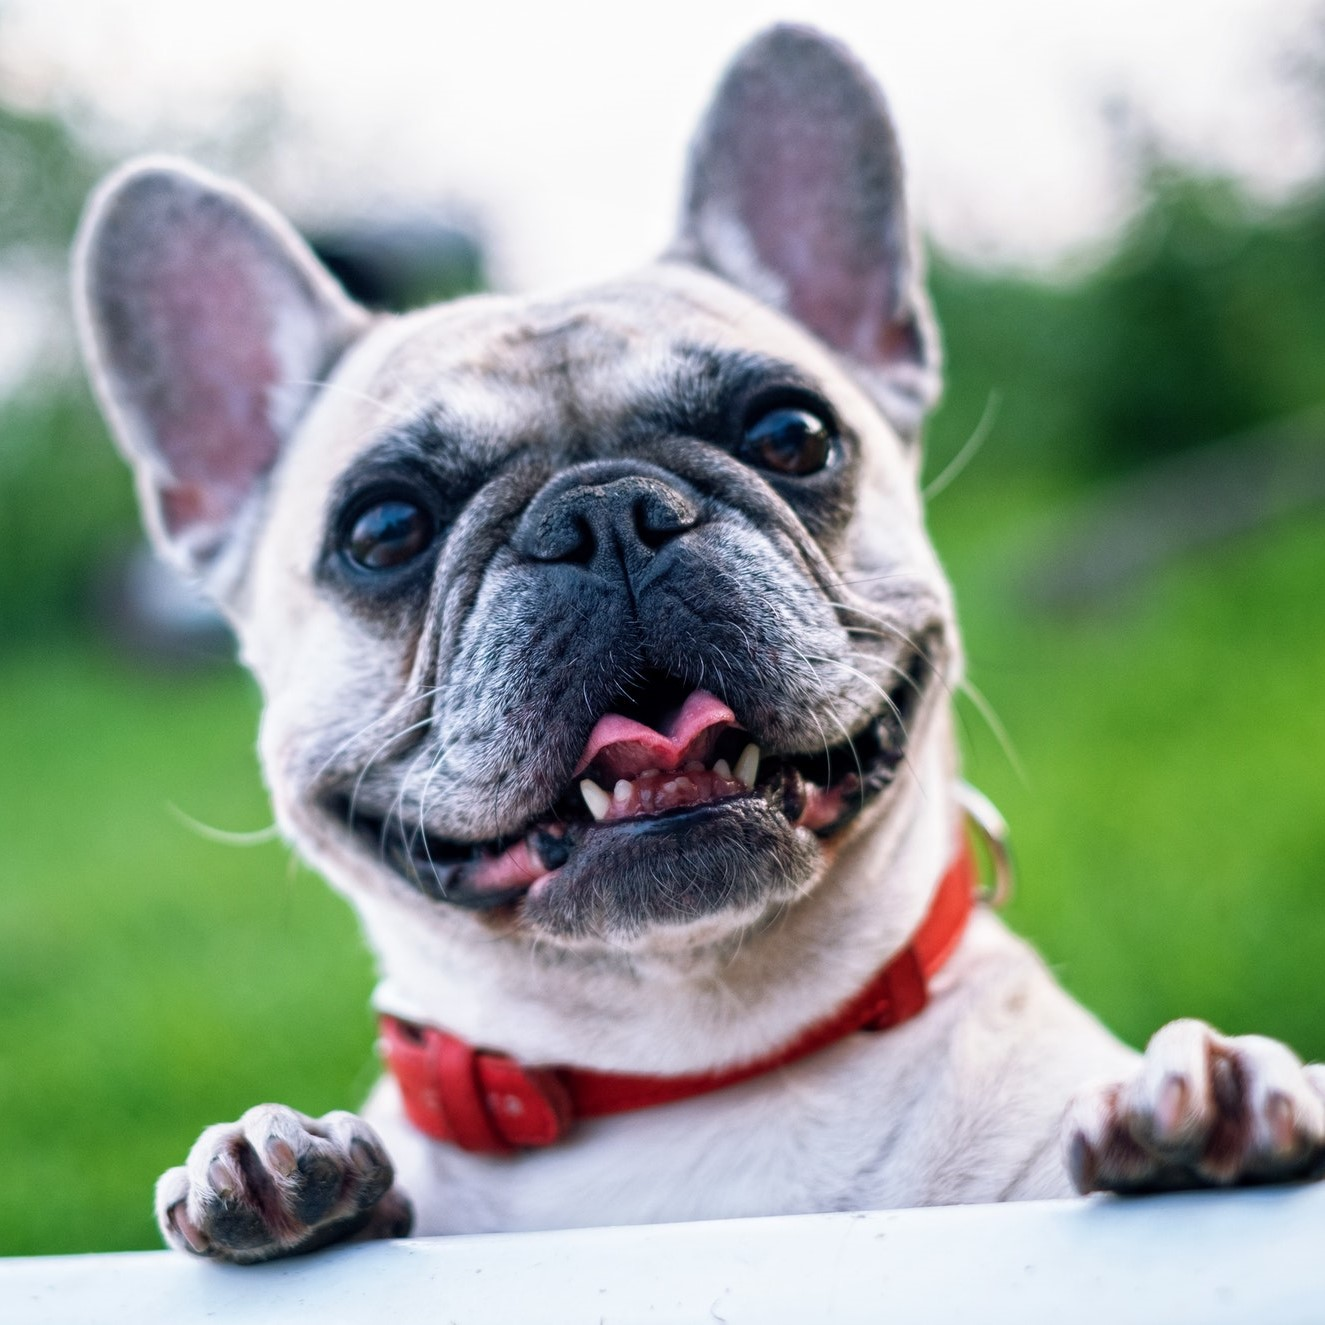
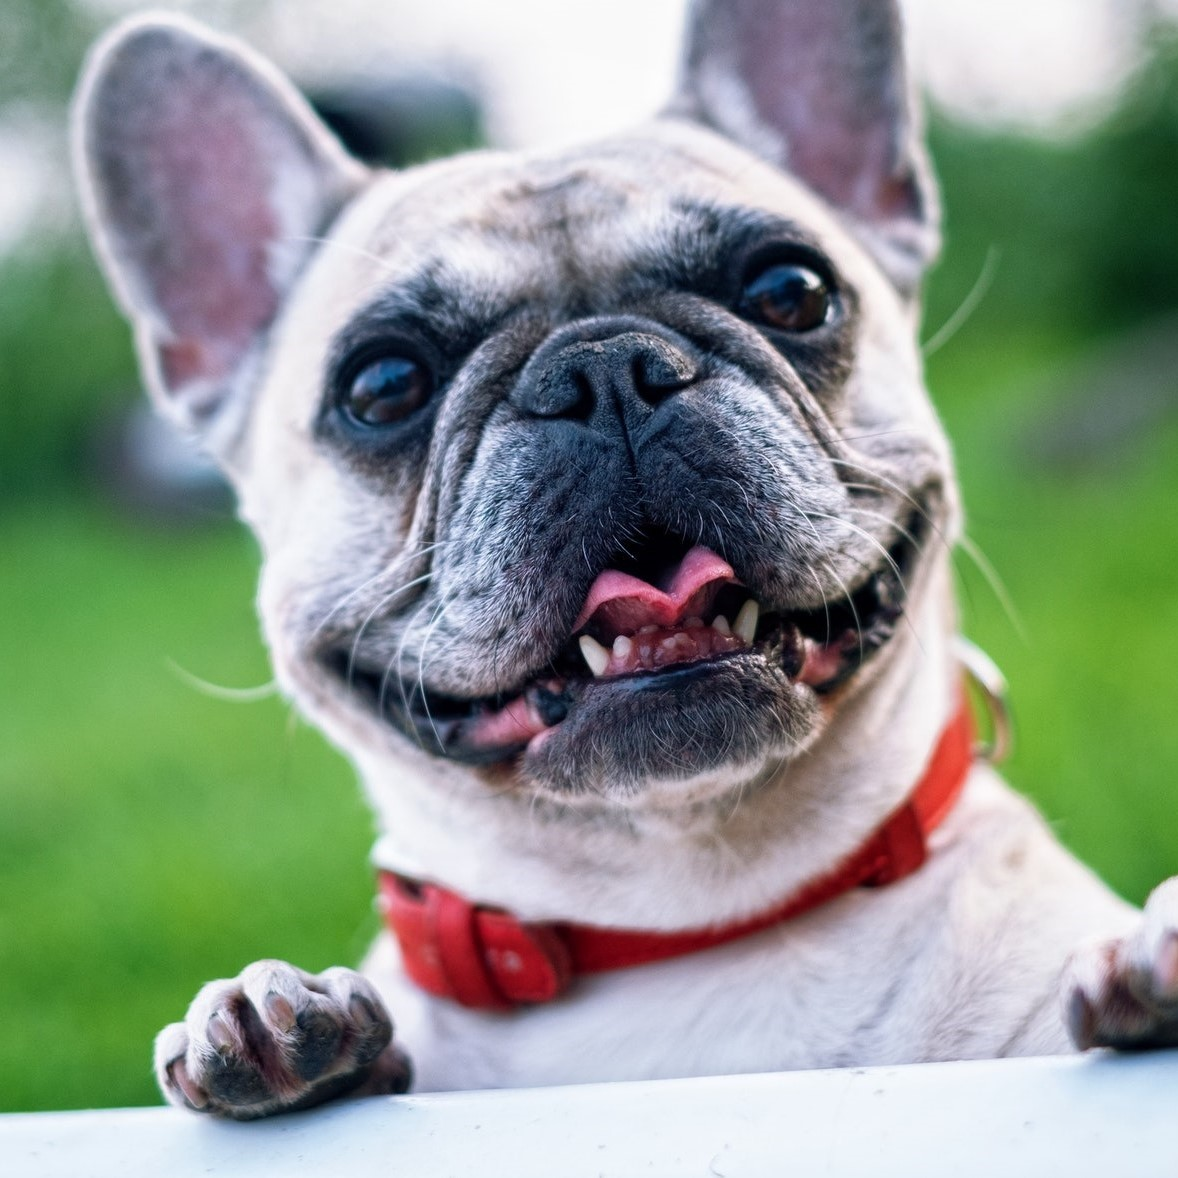
pre netlify commit

diff --git a/src/components/hello.js b/src/components/hello.js
@@ -11,9 +11,9 @@ function SliderComponent(){
         adaptiveHeight:false,
         fade: true,
         infinite: true,
-        speed: 1500,
+        autoplay:true,
         slidesToShow: 1,
-        initialSlide:1,
+        initialSlide:0,
         autoplaySpeed:4000,
         slidesToScroll: 1,
         
@@ -24,14 +24,12 @@ function SliderComponent(){
         <div className="hello">
         <Slider className="hello__slider" {...settings}>
           <div>
-            <StaticImage src="../images/dog22.jpg" />
+            <StaticImage className="hello__image" src="../images/dog22.jpg" />
           </div>
           <div>
-          <StaticImage  className="hello__image" src="../images/dog22.jpg" />
+          <StaticImage  className="hello__image" src="../images/dog1.jpg" />
           </div>
-          <div>
-          <StaticImage src="../images/dog22.jpg" />
-          </div>
+         
  </Slider>
  <div className="hello__mask">
  </div>

diff --git a/src/components/header.js b/src/components/header.js
@@ -17,7 +17,7 @@ function handleClick(){
   
   return(
   <header className="header">
-    <h1 className="header__title">{siteTitle}</h1>
+    <Link className="link" to="/"><h1 className="header__title">{siteTitle}</h1></Link>
     <nav className="navigation">
       <Link to="/dogs" className="navigation__link link">
         Dogs

diff --git a/src/css/main.scss b/src/css/main.scss
@@ -216,6 +216,9 @@ html {
       rgba(20, 20, 20, 0) 40%,
       rgba(20, 20, 20, 0.7315301120448179) 70%
     );
+    @media(max-width:$screen-XS){
+      display: none;
+    }
   }
   &__content {
     @media(max-width:$screen-XS){
